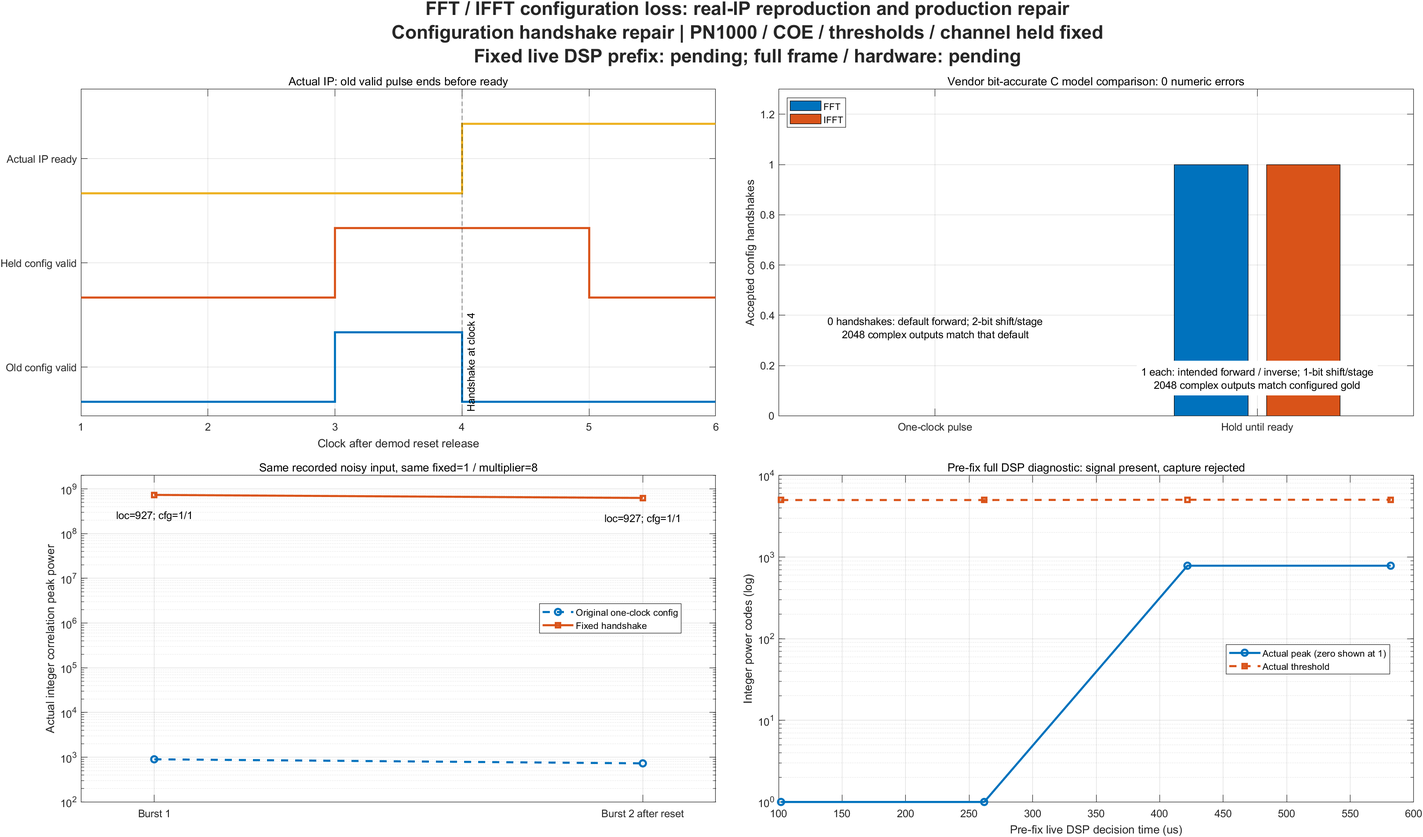
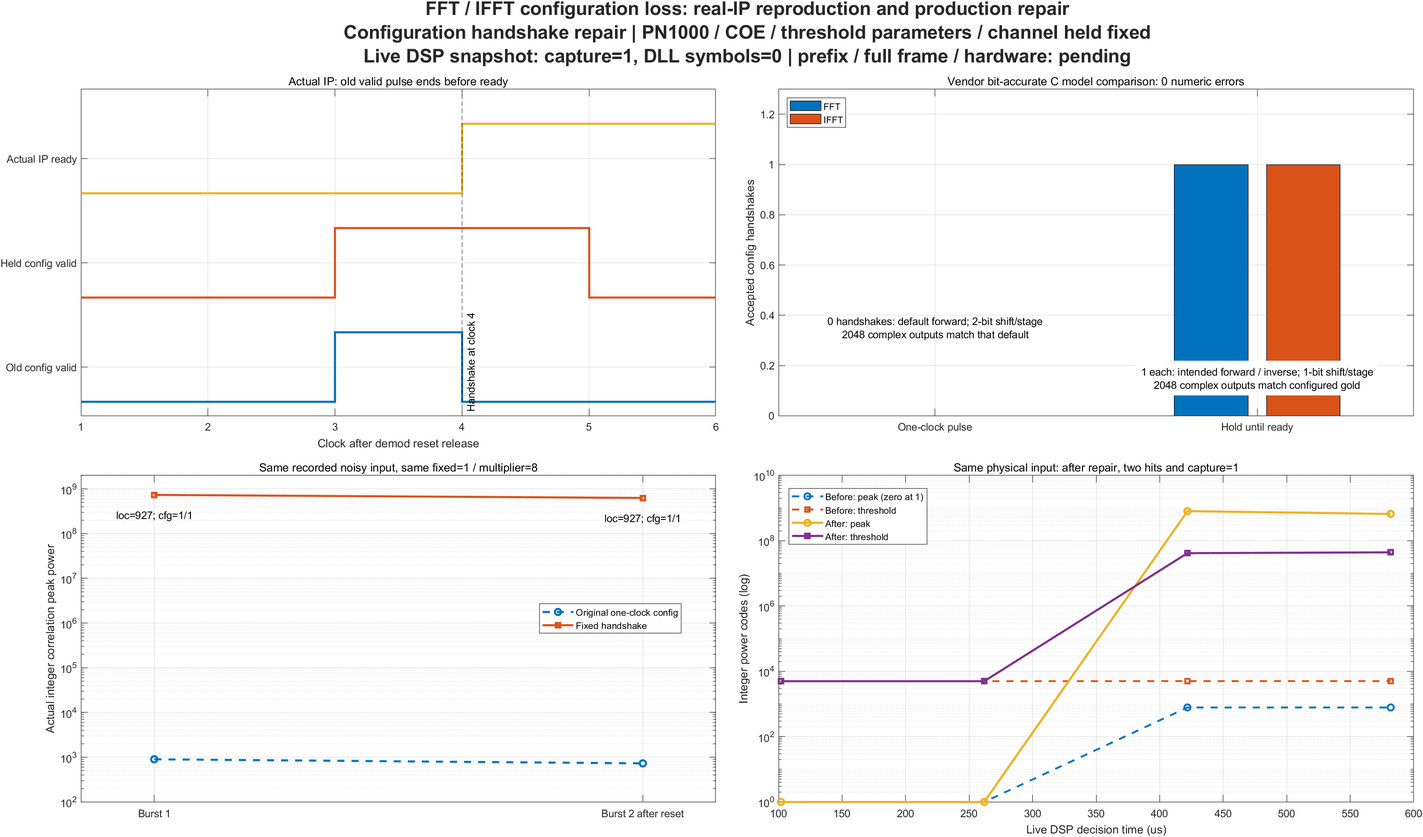
Update DSSS simulation gallery 2026-10-09

diff --git a/completion.html b/completion.html
@@ -24,12 +24,12 @@
 <figure><a href="10_%E5%8F%8C%E5%90%91%E6%97%B6%E9%97%B4%E6%AF%94%E5%AF%B9/01_%E6%96%B0%E6%8A%A5%E6%96%87_CRC_%E5%9B%9B%E6%97%B6%E6%A0%87%E4%B8%8E%E5%BB%B6%E8%BF%9F%E8%A1%A5%E5%81%BF.png"><img src="10_%E5%8F%8C%E5%90%91%E6%97%B6%E9%97%B4%E6%AF%94%E5%AF%B9/01_%E6%96%B0%E6%8A%A5%E6%96%87_CRC_%E5%9B%9B%E6%97%B6%E6%A0%87%E4%B8%8E%E5%BB%B6%E8%BF%9F%E8%A1%A5%E5%81%BF.png" alt="合成四时标与功能波形承载：AB−BA路径时延差的一半进入中点钟差；延迟补偿消除本次10 ns系统偏置。图中ps级误差是整数运算测试结果，不能解释为硬件达到ps精度。"></a><figcaption>合成四时标与功能波形承载：AB−BA路径时延差的一半进入中点钟差；延迟补偿消除本次10 ns系统偏置。图中ps级误差是整数运算测试结果，不能解释为硬件达到ps精度。</figcaption></figure>
 <p class="proof">MATLAB编解码、8类异常输入拒绝、一个完整follow-up报文经现有AD9361功能波形收回且CRC通过。该功能传输固定为70 km、5 GHz示例载频、20 dB设定SNR、约1 Hz频偏、35°初相、码值增益0.5、随机种子20261006；这些是仿真假设，不是链路预算或实测。独立Python标准库CRC32也与报文尾字段一致。RTL的16项测试覆盖100字节/CRC逐项一致、背压稳定、uint64时标、CRC损坏、99/101字节帧、11类CRC正确但格式错误的报文拒绝及恢复。</p>
 <p class="boundary">当前slot模式raw_time_valid仍无效。真实RF时标来源、收发延迟标定、两站初始历元协商、独立时钟跟踪尚未接入。合成时标不是接收机实测钟差；无线传播不对称仍会产生半差偏置。</p></section>
-<section id="status"><h2>3. 当前验收状态与下一步</h2><div id="capture-config"><h3>先解决完整链路的捕获故障</h3><p>原600000拍完整DSP前缀没有捕获。有信号后的两次被动判决，峰值均784、门限5040。新方案按接收窗复位，暴露了旧捕获模块对配置握手的假设。实际FFT/IFFT短测试证实：复位后配置valid只在第3拍出现，而ready第4拍才有效，两路配置均漏接。原IFFT仍运行默认正变换和每级缩放2；保持valid握手后，才得到预期正/逆变换和每级缩放1。两个阶段各两路1024个复数输出与厂商位真C模型全部一致，0误差。</p><p>生产RTL现等待两路配置分别成功才采集，等待计数饱和。独立控制测试还验证超过10拍的背压、两路分别确认和原时隙保护；此项使用算术桩，数值正确性另由真实IP测试提供。原PN、COE、变换方向/缩放意图、门限和信道均未改。分段捕获用同一录制80us输入复测，两次位置均927，峰值分别734859364和628166845，每窗FFT/IFFT各握手一次。这些峰值含变换方向及缩放变化，不能解释为射频增益或SNR改善。完整DSP仍用70km、gain0.5、无噪声频偏、门限5000/20单独验收，分段通过不能替代它。旧低门限捕获900/730也不能继续当成正确配置的证明。</p>
-<figure><a href="03_FFT%E6%8D%95%E8%8E%B7/01_FFT%E9%85%8D%E7%BD%AE%E6%BC%8F%E6%8E%A5_%E7%9C%9F%E5%AE%9EIP%E5%A4%8D%E7%8E%B0%E4%B8%8E%E4%BF%AE%E5%A4%8D.png"><img src="03_FFT%E6%8D%95%E8%8E%B7/01_FFT%E9%85%8D%E7%BD%AE%E6%BC%8F%E6%8E%A5_%E7%9C%9F%E5%AE%9EIP%E5%A4%8D%E7%8E%B0%E4%B8%8E%E4%BF%AE%E5%A4%8D.png" alt="实际FFT配置漏接复现、逐点数值核对、生产捕获段修复回归及原完整DSP失败轨迹。修复后的完整前缀、整帧和硬件状态分别保留。"></a><figcaption>实际FFT配置漏接复现、逐点数值核对、生产捕获段修复回归及原完整DSP失败轨迹。修复后的完整前缀、整帧和硬件状态分别保留。</figcaption></figure>
+<section id="status"><h2>3. 当前验收状态与下一步</h2><div id="capture-config"><h3>先解决完整链路的捕获故障</h3><p>原600000拍完整DSP前缀没有捕获。有信号后的两次被动判决，峰值均784、门限5040。新方案按接收窗复位，暴露了旧捕获模块对配置握手的假设。实际FFT/IFFT短测试证实：复位后配置valid只在第3拍出现，而ready第4拍才有效，两路配置均漏接。原IFFT仍运行默认正变换和每级缩放2；保持valid握手后，才得到预期正/逆变换和每级缩放1。两个阶段各两路1024个复数输出与厂商位真C模型全部一致，0误差。</p><p>生产RTL现等待两路配置分别成功才采集，等待计数饱和。独立控制测试还验证超过10拍的背压、两路分别确认和原时隙保护；此项使用算术桩，数值正确性另由真实IP测试提供。原PN、COE、变换方向/缩放意图、门限和信道均未改。分段捕获用同一录制80us输入复测，两次位置均927，峰值分别734859364和628166845，每窗FFT/IFFT各握手一次。这些峰值含变换方向及缩放变化，不能解释为射频增益或SNR改善。完整DSP仍用70km、gain0.5、无噪声频偏、门限参数5000/20单独验收；约600us被动快照已输出1次捕获，码相位231。修复前后3850个已输出TX/信道/插值采样点完全一致，分段通过不能替代它。旧低门限捕获900/730也不能继续当成正确配置的证明。</p>
+<figure><a href="03_FFT%E6%8D%95%E8%8E%B7/01_FFT%E9%85%8D%E7%BD%AE%E6%BC%8F%E6%8E%A5_%E7%9C%9F%E5%AE%9EIP%E5%A4%8D%E7%8E%B0%E4%B8%8E%E4%BF%AE%E5%A4%8D.png"><img src="03_FFT%E6%8D%95%E8%8E%B7/01_FFT%E9%85%8D%E7%BD%AE%E6%BC%8F%E6%8E%A5_%E7%9C%9F%E5%AE%9EIP%E5%A4%8D%E7%8E%B0%E4%B8%8E%E4%BF%AE%E5%A4%8D.png" alt="实际FFT配置漏接复现、逐点数值核对、生产捕获段修复回归及原完整DSP失败轨迹。修复后约600us快照已观测1次完整DSP捕获；前缀16个解扩符号、整帧和硬件状态分别保留。"></a><figcaption>实际FFT配置漏接复现、逐点数值核对、生产捕获段修复回归及原完整DSP失败轨迹。修复后约600us快照已观测1次完整DSP捕获；前缀16个解扩符号、整帧和硬件状态分别保留。</figcaption></figure>
 <p><a href="capture_config_repair.json">查看本次修复原始统计与源码指纹</a></p></div><div class="tablewrap"><table><tr><th>项目</th><th>已经得到的证据</th><th>仍需完成</th></tr>
 <tr><td>模型与来源</td><td>新功能回归、双接收窗、现有Simulink联动通过；16个复用RTL及5份原COE来源核对通过。</td><td>解决19个TX启动valid零值、Costas最大36码值差异、rx_norm P_SKIP超时使能。</td></tr>
 <tr><td>模型驱动顶层</td><td>重新导出87端口顶层，66个IP配置；已有690T仿真器件、默认RX_AUTOCAL_ENABLE=0上的接口展开通过，74个加密宏仍为黑盒；自动扫描控制路径由上面的独立门控测试覆盖。</td><td>已准备受检查的bit构建脚本并通过语法/参数保护测试；还需实际完整FPGA型号和用户XDC才能映射综合、布局布线及资源/时序检查。没有新bit。</td></tr>
-<tr><td>真实波形RTL</td><td>已编译实际TX/FIR201 → /5 signed12 → 70 km因果两抽头分数延迟 → 插值5 → 完整RX真实IP测试入口。</td><td>原600000拍前缀0捕获失败；FFT配置漏接已定位并修复，修复后前缀单独复跑，未完成前不升级状态。整帧100字节、连续窗及故障场景仍待验收，也未含LVDS/FIFO/独立采样钟。</td></tr>
+<tr><td>真实波形RTL</td><td>已编译实际TX/FIR201 → /5 signed12 → 70 km因果两抽头分数延迟 → 插值5 → 完整RX真实IP测试入口。</td><td>原600000拍前缀0捕获失败；FFT配置漏接已定位并修复，修复后完整DSP约600us快照已观测1次捕获；16符号前缀仍在运行，未完成前不升级状态。整帧100字节、连续窗及故障场景仍待验收，也未含LVDS/FIFO/独立采样钟。</td></tr>
 <tr><td>硬件初始化/校准</td><td>RX扫描和radio门控有独立逻辑测试；SPI接口已有。</td><td>器件完整初始化/读回、TX扫描、实际RX/TX窗口与回环测试。</td></tr>
 <tr><td>双向测时</td><td>应用编解码、序号/历元绑定估计器及功能传输有证据。</td><td>RF时标、历元协商、频率跟踪、物理标定和硬件验收。</td></tr></table></div>
 <p><strong>代码参数调优的固定原则：</strong>锁定70 km、频偏、接收幅度/SNR、钟速差、多径假设和随机种子；改变TX_SHIFT、FIR整数系数/截位、Costas/DLL整数增益、捕获门限、归一化节拍等代码参数。每个候选保存固定信道指纹及源码/COE/IP指纹，先功能筛选，再实际RTL/IP验证，最后替换正式配置。最终调优还须固定基准噪声方差和通道/模拟增益；改变TX_SHIFT时不能按候选波形RMS重新设定噪声，否则改变了测试条件。当前功能运行器的设定SNR方式只用于覆盖性回归。当前没有完成这项扫描，也不把降低频偏或提高SNR后的接收成功当作代码优化。</p>

diff --git a/00_图册索引.html b/00_图册索引.html
@@ -35,7 +35,7 @@
 <article class="result" data-feature="model_tx_rtl_comparison.png"><div class="card-heading"><span class="number">03 / TRANSMITTER</span><span class="tag">真实 RTL 发送段</span></div><h3>模型产生的波形，代码能否复现？</h3><p class="meaning">使用实际组帧、PN 和 FIR IP，对齐独立延迟后逐点比较发送波形。</p><a class="figure" href="08_MATLAB_Simulink_RTL%E5%AF%B9%E7%85%A7/03_%E5%AE%9E%E9%99%85%E5%8F%91%E9%80%81%E5%99%A8_PN_FIR201_%E6%A8%A1%E5%9E%8B%E5%AF%B9%E7%85%A7.png" target="_blank" aria-label="放大：模型产生的波形，代码能否复现？"><img loading="lazy" src="08_MATLAB_Simulink_RTL%E5%AF%B9%E7%85%A7/03_%E5%AE%9E%E9%99%85%E5%8F%91%E9%80%81%E5%99%A8_PN_FIR201_%E6%A8%A1%E5%9E%8B%E5%AF%B9%E7%85%A7.png" alt="模型产生的波形，代码能否复现？"></a><p class="evidence">前 8 比特 · 8,000 码片 · 160,000 DSP 点，误差 0。</p><p class="boundary">存在 19 个启动有效零样本差异；范围不含完整接收链和 LVDS。</p><a class="detail" href="migration.html">查看方法与验证范围 <span aria-hidden="true">→</span></a></article>
 <article class="result" data-feature="rtl_comparison.png"><div class="card-heading"><span class="number">04 / RTL SEGMENTS</span><span class="tag">真实 RTL 分段</span></div><h3>关键处理段是否有独立代码证据？</h3><p class="meaning">汇总 FIR、后端 Costas 与连续帧恢复结果，定位已验证的边界。</p><a class="figure" href="08_MATLAB_Simulink_RTL%E5%AF%B9%E7%85%A7/01_%E5%AE%9E%E9%99%85RTL_%E5%88%86%E6%AE%B5%E9%AA%8C%E8%AF%81%E6%80%BB%E8%A7%88.png" target="_blank" aria-label="放大：关键处理段是否有独立代码证据？"><img loading="lazy" src="08_MATLAB_Simulink_RTL%E5%AF%B9%E7%85%A7/01_%E5%AE%9E%E9%99%85RTL_%E5%88%86%E6%AE%B5%E9%AA%8C%E8%AF%81%E6%80%BB%E8%A7%88.png" alt="关键处理段是否有独立代码证据？"></a><p class="evidence">已有 FIR、后端与连续帧分段验证。</p><p class="boundary">后端测试绕过 FFT / DLL；分段通过不等于整链通过。</p><a class="detail" href="modules.html#rtl_compare">查看方法与验证范围 <span aria-hidden="true">→</span></a></article>
 </div></section><section id="updates"><div class="section-head"><div><h2>近期补齐</h2><p>先解决完整链路捕获故障，再补齐双向时间信息。</p></div><a href="completion.html">查看本轮实现与待补项 →</a></div><div class="grid">
-<article class="result" data-feature="fft_config_repair_validation.png"><div class="card-heading"><span class="number">05 / ACQUISITION</span><span class="tag">实际 IP 复现与修复</span></div><h3>FFT 配置为什么漏接，如何修复？</h3><p class="meaning">实际IP复现复位后配置脉冲早于ready，修复握手后核对正逆变换和捕获输出。</p><a class="figure" href="03_FFT%E6%8D%95%E8%8E%B7/01_FFT%E9%85%8D%E7%BD%AE%E6%BC%8F%E6%8E%A5_%E7%9C%9F%E5%AE%9EIP%E5%A4%8D%E7%8E%B0%E4%B8%8E%E4%BF%AE%E5%A4%8D.png" target="_blank" aria-label="放大：FFT 配置为什么漏接，如何修复？"><img loading="lazy" src="03_FFT%E6%8D%95%E8%8E%B7/01_FFT%E9%85%8D%E7%BD%AE%E6%BC%8F%E6%8E%A5_%E7%9C%9F%E5%AE%9EIP%E5%A4%8D%E7%8E%B0%E4%B8%8E%E4%BF%AE%E5%A4%8D.png" alt="FFT 配置为什么漏接，如何修复？"></a><p class="evidence">两阶段各2,048个复数输出与厂商位真模型一致。</p><p class="boundary">生产捕获段单独复测；完整DSP前缀、整帧与硬件分别验收。</p><a class="detail" href="completion.html#capture-config">查看方法与验证范围 <span aria-hidden="true">→</span></a></article>
+<article class="result" data-feature="fft_config_repair_validation.png"><div class="card-heading"><span class="number">05 / ACQUISITION</span><span class="tag">实际 IP 复现与修复</span></div><h3>FFT 配置为什么漏接，如何修复？</h3><p class="meaning">实际IP复现复位后配置脉冲早于ready，修复握手后核对正逆变换和捕获输出。</p><a class="figure" href="03_FFT%E6%8D%95%E8%8E%B7/01_FFT%E9%85%8D%E7%BD%AE%E6%BC%8F%E6%8E%A5_%E7%9C%9F%E5%AE%9EIP%E5%A4%8D%E7%8E%B0%E4%B8%8E%E4%BF%AE%E5%A4%8D.png" target="_blank" aria-label="放大：FFT 配置为什么漏接，如何修复？"><img loading="lazy" src="03_FFT%E6%8D%95%E8%8E%B7/01_FFT%E9%85%8D%E7%BD%AE%E6%BC%8F%E6%8E%A5_%E7%9C%9F%E5%AE%9EIP%E5%A4%8D%E7%8E%B0%E4%B8%8E%E4%BF%AE%E5%A4%8D.png" alt="FFT 配置为什么漏接，如何修复？"></a><p class="evidence">位真对照0误差；完整DSP已观测到1次捕获。</p><p class="boundary">同一信道的约600us被动快照；16符号前缀、整帧与硬件分别验收。</p><a class="detail" href="completion.html#capture-config">查看方法与验证范围 <span aria-hidden="true">→</span></a></article>
 <article class="result" data-feature="time_protocol_validation.png"><div class="card-heading"><span class="number">06 / TIME TRANSFER</span><span class="tag">合成时标 · 功能承载</span></div><h3>时间报文、CRC 与钟差计算</h3><p class="meaning">验证 100 字节应用报文、四时标绑定与已知延迟补偿，说明信息如何用于求钟差。</p><a class="figure" href="10_%E5%8F%8C%E5%90%91%E6%97%B6%E9%97%B4%E6%AF%94%E5%AF%B9/01_%E6%96%B0%E6%8A%A5%E6%96%87_CRC_%E5%9B%9B%E6%97%B6%E6%A0%87%E4%B8%8E%E5%BB%B6%E8%BF%9F%E8%A1%A5%E5%81%BF.png" target="_blank" aria-label="放大：时间报文、CRC 与钟差计算"><img loading="lazy" src="10_%E5%8F%8C%E5%90%91%E6%97%B6%E9%97%B4%E6%AF%94%E5%AF%B9/01_%E6%96%B0%E6%8A%A5%E6%96%87_CRC_%E5%9B%9B%E6%97%B6%E6%A0%87%E4%B8%8E%E5%BB%B6%E8%BF%9F%E8%A1%A5%E5%81%BF.png" alt="时间报文、CRC 与钟差计算"></a><p class="evidence">功能波形 1 帧零误码；报文 RTL 16 项测试通过。</p><p class="boundary">使用合成时标；RF 时间戳与双站历元协商仍未实现。</p><a class="detail" href="completion.html">查看方法与验证范围 <span aria-hidden="true">→</span></a></article>
 </div></section><section class="status" aria-label="验证状态"><div><h3>当前可以确认</h3><p>功能模型、实际发送段与若干接收处理段已有结果；已定位并修复FFT配置漏接，接口扫描和应用报文已有数字逻辑测试。实际模型、图源和复跑方法在详情页保留。</p></div><div><h3>下一道关卡</h3><p>完整波形 RTL、TX 校准、RF 时标与历元闭环、目标器件综合及硬件联调。代码参数调优需在固定物理信道下进行。</p><a href="completion.html">查看详细状态与验收边界 →</a></div></section>
 <section class="archive"><div><h2>需要查细节时，再进入完整图册</h2><p>全部分类、模块筛选、子图解释、历史参考与出图计划都在这里；原有成果完整保留。</p></div><a href="catalog.html">打开完整图册 →</a></section></main>

diff --git a/index.html b/index.html
@@ -35,7 +35,7 @@
 <article class="result" data-feature="model_tx_rtl_comparison.png"><div class="card-heading"><span class="number">03 / TRANSMITTER</span><span class="tag">真实 RTL 发送段</span></div><h3>模型产生的波形，代码能否复现？</h3><p class="meaning">使用实际组帧、PN 和 FIR IP，对齐独立延迟后逐点比较发送波形。</p><a class="figure" href="08_MATLAB_Simulink_RTL%E5%AF%B9%E7%85%A7/03_%E5%AE%9E%E9%99%85%E5%8F%91%E9%80%81%E5%99%A8_PN_FIR201_%E6%A8%A1%E5%9E%8B%E5%AF%B9%E7%85%A7.png" target="_blank" aria-label="放大：模型产生的波形，代码能否复现？"><img loading="lazy" src="08_MATLAB_Simulink_RTL%E5%AF%B9%E7%85%A7/03_%E5%AE%9E%E9%99%85%E5%8F%91%E9%80%81%E5%99%A8_PN_FIR201_%E6%A8%A1%E5%9E%8B%E5%AF%B9%E7%85%A7.png" alt="模型产生的波形，代码能否复现？"></a><p class="evidence">前 8 比特 · 8,000 码片 · 160,000 DSP 点，误差 0。</p><p class="boundary">存在 19 个启动有效零样本差异；范围不含完整接收链和 LVDS。</p><a class="detail" href="migration.html">查看方法与验证范围 <span aria-hidden="true">→</span></a></article>
 <article class="result" data-feature="rtl_comparison.png"><div class="card-heading"><span class="number">04 / RTL SEGMENTS</span><span class="tag">真实 RTL 分段</span></div><h3>关键处理段是否有独立代码证据？</h3><p class="meaning">汇总 FIR、后端 Costas 与连续帧恢复结果，定位已验证的边界。</p><a class="figure" href="08_MATLAB_Simulink_RTL%E5%AF%B9%E7%85%A7/01_%E5%AE%9E%E9%99%85RTL_%E5%88%86%E6%AE%B5%E9%AA%8C%E8%AF%81%E6%80%BB%E8%A7%88.png" target="_blank" aria-label="放大：关键处理段是否有独立代码证据？"><img loading="lazy" src="08_MATLAB_Simulink_RTL%E5%AF%B9%E7%85%A7/01_%E5%AE%9E%E9%99%85RTL_%E5%88%86%E6%AE%B5%E9%AA%8C%E8%AF%81%E6%80%BB%E8%A7%88.png" alt="关键处理段是否有独立代码证据？"></a><p class="evidence">已有 FIR、后端与连续帧分段验证。</p><p class="boundary">后端测试绕过 FFT / DLL；分段通过不等于整链通过。</p><a class="detail" href="modules.html#rtl_compare">查看方法与验证范围 <span aria-hidden="true">→</span></a></article>
 </div></section><section id="updates"><div class="section-head"><div><h2>近期补齐</h2><p>先解决完整链路捕获故障，再补齐双向时间信息。</p></div><a href="completion.html">查看本轮实现与待补项 →</a></div><div class="grid">
-<article class="result" data-feature="fft_config_repair_validation.png"><div class="card-heading"><span class="number">05 / ACQUISITION</span><span class="tag">实际 IP 复现与修复</span></div><h3>FFT 配置为什么漏接，如何修复？</h3><p class="meaning">实际IP复现复位后配置脉冲早于ready，修复握手后核对正逆变换和捕获输出。</p><a class="figure" href="03_FFT%E6%8D%95%E8%8E%B7/01_FFT%E9%85%8D%E7%BD%AE%E6%BC%8F%E6%8E%A5_%E7%9C%9F%E5%AE%9EIP%E5%A4%8D%E7%8E%B0%E4%B8%8E%E4%BF%AE%E5%A4%8D.png" target="_blank" aria-label="放大：FFT 配置为什么漏接，如何修复？"><img loading="lazy" src="03_FFT%E6%8D%95%E8%8E%B7/01_FFT%E9%85%8D%E7%BD%AE%E6%BC%8F%E6%8E%A5_%E7%9C%9F%E5%AE%9EIP%E5%A4%8D%E7%8E%B0%E4%B8%8E%E4%BF%AE%E5%A4%8D.png" alt="FFT 配置为什么漏接，如何修复？"></a><p class="evidence">两阶段各2,048个复数输出与厂商位真模型一致。</p><p class="boundary">生产捕获段单独复测；完整DSP前缀、整帧与硬件分别验收。</p><a class="detail" href="completion.html#capture-config">查看方法与验证范围 <span aria-hidden="true">→</span></a></article>
+<article class="result" data-feature="fft_config_repair_validation.png"><div class="card-heading"><span class="number">05 / ACQUISITION</span><span class="tag">实际 IP 复现与修复</span></div><h3>FFT 配置为什么漏接，如何修复？</h3><p class="meaning">实际IP复现复位后配置脉冲早于ready，修复握手后核对正逆变换和捕获输出。</p><a class="figure" href="03_FFT%E6%8D%95%E8%8E%B7/01_FFT%E9%85%8D%E7%BD%AE%E6%BC%8F%E6%8E%A5_%E7%9C%9F%E5%AE%9EIP%E5%A4%8D%E7%8E%B0%E4%B8%8E%E4%BF%AE%E5%A4%8D.png" target="_blank" aria-label="放大：FFT 配置为什么漏接，如何修复？"><img loading="lazy" src="03_FFT%E6%8D%95%E8%8E%B7/01_FFT%E9%85%8D%E7%BD%AE%E6%BC%8F%E6%8E%A5_%E7%9C%9F%E5%AE%9EIP%E5%A4%8D%E7%8E%B0%E4%B8%8E%E4%BF%AE%E5%A4%8D.png" alt="FFT 配置为什么漏接，如何修复？"></a><p class="evidence">位真对照0误差；完整DSP已观测到1次捕获。</p><p class="boundary">同一信道的约600us被动快照；16符号前缀、整帧与硬件分别验收。</p><a class="detail" href="completion.html#capture-config">查看方法与验证范围 <span aria-hidden="true">→</span></a></article>
 <article class="result" data-feature="time_protocol_validation.png"><div class="card-heading"><span class="number">06 / TIME TRANSFER</span><span class="tag">合成时标 · 功能承载</span></div><h3>时间报文、CRC 与钟差计算</h3><p class="meaning">验证 100 字节应用报文、四时标绑定与已知延迟补偿，说明信息如何用于求钟差。</p><a class="figure" href="10_%E5%8F%8C%E5%90%91%E6%97%B6%E9%97%B4%E6%AF%94%E5%AF%B9/01_%E6%96%B0%E6%8A%A5%E6%96%87_CRC_%E5%9B%9B%E6%97%B6%E6%A0%87%E4%B8%8E%E5%BB%B6%E8%BF%9F%E8%A1%A5%E5%81%BF.png" target="_blank" aria-label="放大：时间报文、CRC 与钟差计算"><img loading="lazy" src="10_%E5%8F%8C%E5%90%91%E6%97%B6%E9%97%B4%E6%AF%94%E5%AF%B9/01_%E6%96%B0%E6%8A%A5%E6%96%87_CRC_%E5%9B%9B%E6%97%B6%E6%A0%87%E4%B8%8E%E5%BB%B6%E8%BF%9F%E8%A1%A5%E5%81%BF.png" alt="时间报文、CRC 与钟差计算"></a><p class="evidence">功能波形 1 帧零误码；报文 RTL 16 项测试通过。</p><p class="boundary">使用合成时标；RF 时间戳与双站历元协商仍未实现。</p><a class="detail" href="completion.html">查看方法与验证范围 <span aria-hidden="true">→</span></a></article>
 </div></section><section class="status" aria-label="验证状态"><div><h3>当前可以确认</h3><p>功能模型、实际发送段与若干接收处理段已有结果；已定位并修复FFT配置漏接，接口扫描和应用报文已有数字逻辑测试。实际模型、图源和复跑方法在详情页保留。</p></div><div><h3>下一道关卡</h3><p>完整波形 RTL、TX 校准、RF 时标与历元闭环、目标器件综合及硬件联调。代码参数调优需在固定物理信道下进行。</p><a href="completion.html">查看详细状态与验收边界 →</a></div></section>
 <section class="archive"><div><h2>需要查细节时，再进入完整图册</h2><p>全部分类、模块筛选、子图解释、历史参考与出图计划都在这里；原有成果完整保留。</p></div><a href="catalog.html">打开完整图册 →</a></section></main>

diff --git a/catalog.html b/catalog.html
@@ -173,14 +173,14 @@ img{width:100%;height:240px;object-fit:contain;background:#f8fafc}h3{font-size:1
 </details></article>
 </div></section>
 <section data-category="3" id="c3"><h2>03_FFT捕获</h2><p class="note">尚无独立捕获图。真实IP重捕获已有日志，概率、虚警及完整RTL捕获曲线待补。</p><div class="grid">
-<article data-era="current" data-modules="ad_dll script_capture"><span class="badge">真实FFT配置实验与捕获段回归</span><h3>01_FFT配置漏接_真实IP复现与修复.png</h3><a href="03_FFT%E6%8D%95%E8%8E%B7/01_FFT%E9%85%8D%E7%BD%AE%E6%BC%8F%E6%8E%A5_%E7%9C%9F%E5%AE%9EIP%E5%A4%8D%E7%8E%B0%E4%B8%8E%E4%BF%AE%E5%A4%8D.png" target="_blank"><img loading="lazy" src="03_FFT%E6%8D%95%E8%8E%B7/01_FFT%E9%85%8D%E7%BD%AE%E6%BC%8F%E6%8E%A5_%E7%9C%9F%E5%AE%9EIP%E5%A4%8D%E7%8E%B0%E4%B8%8E%E4%BF%AE%E5%A4%8D.png" alt="01_FFT配置漏接_真实IP复现与修复.png"></a><p>复位后原单拍配置早于ready，FFT/IFFT均漏接；两阶段各两路1024复数输出与厂商位真模型0误差。生产代码改为握手保持，录制20dB/35度/约1Hz的80us输入、门限1/8不变，双次捕获复测；右下是原完整DSP诊断失败，70km/gain0.5/无噪声频偏/门限5000/20。不是完整帧、LVDS或硬件验收。</p><p><strong>对应模块 / 图源：</strong></p><ul class="module-links">
+<article data-era="current" data-modules="ad_dll script_capture"><span class="badge">真实FFT配置实验与捕获段回归</span><h3>01_FFT配置漏接_真实IP复现与修复.png</h3><a href="03_FFT%E6%8D%95%E8%8E%B7/01_FFT%E9%85%8D%E7%BD%AE%E6%BC%8F%E6%8E%A5_%E7%9C%9F%E5%AE%9EIP%E5%A4%8D%E7%8E%B0%E4%B8%8E%E4%BF%AE%E5%A4%8D.png" target="_blank"><img loading="lazy" src="03_FFT%E6%8D%95%E8%8E%B7/01_FFT%E9%85%8D%E7%BD%AE%E6%BC%8F%E6%8E%A5_%E7%9C%9F%E5%AE%9EIP%E5%A4%8D%E7%8E%B0%E4%B8%8E%E4%BF%AE%E5%A4%8D.png" alt="01_FFT配置漏接_真实IP复现与修复.png"></a><p>复位后原单拍配置早于ready，FFT/IFFT均漏接；两阶段各两路1024复数输出与厂商位真模型0误差。生产代码改为握手保持，录制20dB/35度/约1Hz的80us输入、门限1/8不变，双次捕获复测；右下为完整DSP修复前失败与修复后连续两次命中、1次真实捕获的约600us被动快照，70km/gain0.5/无噪声频偏/门限5000/20。不是完整帧、LVDS或硬件验收。</p><p><strong>对应模块 / 图源：</strong></p><ul class="module-links">
 <li><a href="modules.html#ad_dll">04 接收同步：FFT捕获、DLL与DSSS解扩</a>：登记的新图对应模块；场景及信号说明见图注</li>
 <li><a href="modules.html#script_capture">28 FFT配置：复位握手与真实捕获回归</a>：登记的新图对应模块；场景及信号说明见图注</li>
-</ul><details class="panel-note"><summary>这张图从哪里取数 / 如何阅读</summary><p>独立Xsim实际FFT/IFFT配置数值实验、生产fft_cap_3录制波形回归以及修复前完整DSP失败轨迹；plot_dsss_fft_config_repair读取真实日志绘图，不是Scope或虚构Simulink模块。</p>
+</ul><details class="panel-note"><summary>这张图从哪里取数 / 如何阅读</summary><p>独立Xsim实际FFT/IFFT配置数值实验、生产fft_cap_3录制波形回归以及同一物理输入下的完整DSP修复前后被动轨迹；plot_dsss_fft_config_repair读取真实日志绘图，不是Scope或虚构Simulink模块。</p>
 <p><strong>左上 · 复位后的配置valid/ready</strong><br>FFT_CONFIG_PROBE实际时钟记录<br>原valid在第3拍，ready第4拍才有效；保持valid后才能握手。</p>
 <p><strong>右上 · 接收配置次数与逐点核对</strong><br>fft_config_results.csv<br>每阶段两路各1024复数输出匹配对应厂商位真模型；原IFFT实际仍是默认正变换。</p>
 <p><strong>左下 · 同一录制波形的捕获峰值</strong><br>capture_events_before_config_fix.csv / capture_events.csv<br>原与修复后使用相同80us周期向量及门限1/8；不是实时完整波形，位置变化不能单独证明码同步精度。</p>
-<p><strong>右下 · 修复前完整DSP捕获判决</strong><br>capture_diag_baseline/capture_diagnostics.csv<br>70km/gain0.5/无噪声频偏，门限5000/20，两次有信号峰值784低于5040；修复后完整链另验。</p>
+<p><strong>右下 · 同一信道下的完整DSP修复前后判决</strong><br>capture_diag_baseline/capture_diagnostics.csv<br>70km/gain0.5/无噪声频偏，静态门限参数5000/20不变；原峰784未过5040，修复后两次超过实际动态门限并输出1次捕获。当前为约600us快照，前缀/整帧另验。</p>
 </details></article>
 </div></section>
 <section data-category="4" id="c4"><h2>04_DLL与解扩</h2><p class="note">DLL误差及解扩星座见01目录的AD9361总览；E/P/L、S曲线等独立图待补。</p><div class="grid">

diff --git a/modules.html b/modules.html
@@ -646,12 +646,12 @@ hilite_system(&#x27;dsss_wireless_link/Costas_I_Q&#x27;,&#x27;find&#x27;);</pre>
 <tr><td>右下</td><td>70km传播与功能传输</td><td>合成真值 / 功能波形收帧</td><td>1帧0错且CRC通过；没有实时双站钟差。</td></tr>
 </table>
 </details>
-<details><summary>01_FFT配置漏接_真实IP复现与修复.png</summary><p>独立Xsim实际FFT/IFFT配置数值实验、生产fft_cap_3录制波形回归以及修复前完整DSP失败轨迹；plot_dsss_fft_config_repair读取真实日志绘图，不是Scope或虚构Simulink模块。</p>
+<details><summary>01_FFT配置漏接_真实IP复现与修复.png</summary><p>独立Xsim实际FFT/IFFT配置数值实验、生产fft_cap_3录制波形回归以及同一物理输入下的完整DSP修复前后被动轨迹；plot_dsss_fft_config_repair读取真实日志绘图，不是Scope或虚构Simulink模块。</p>
 <table><tr><th>位置</th><th>子图</th><th>取数节点</th><th>解释</th></tr>
 <tr><td>左上</td><td>复位后的配置valid/ready</td><td>FFT_CONFIG_PROBE实际时钟记录</td><td>原valid在第3拍，ready第4拍才有效；保持valid后才能握手。</td></tr>
 <tr><td>右上</td><td>接收配置次数与逐点核对</td><td>fft_config_results.csv</td><td>每阶段两路各1024复数输出匹配对应厂商位真模型；原IFFT实际仍是默认正变换。</td></tr>
 <tr><td>左下</td><td>同一录制波形的捕获峰值</td><td>capture_events_before_config_fix.csv / capture_events.csv</td><td>原与修复后使用相同80us周期向量及门限1/8；不是实时完整波形，位置变化不能单独证明码同步精度。</td></tr>
-<tr><td>右下</td><td>修复前完整DSP捕获判决</td><td>capture_diag_baseline/capture_diagnostics.csv</td><td>70km/gain0.5/无噪声频偏，门限5000/20，两次有信号峰值784低于5040；修复后完整链另验。</td></tr>
+<tr><td>右下</td><td>同一信道下的完整DSP修复前后判决</td><td>capture_diag_baseline/capture_diagnostics.csv</td><td>70km/gain0.5/无噪声频偏，静态门限参数5000/20不变；原峰784未过5040，修复后两次超过实际动态门限并输出1次捕获。当前为约600us快照，前缀/整帧另验。</td></tr>
 </table>
 </details>
 <script>document.querySelectorAll('[data-diagram][data-zoom]').forEach(button=>button.addEventListener('click',()=>{const image=document.getElementById('image-'+button.dataset.diagram);image.style.width=(100*Number(button.dataset.zoom))+'%';}));</script></main></html>
